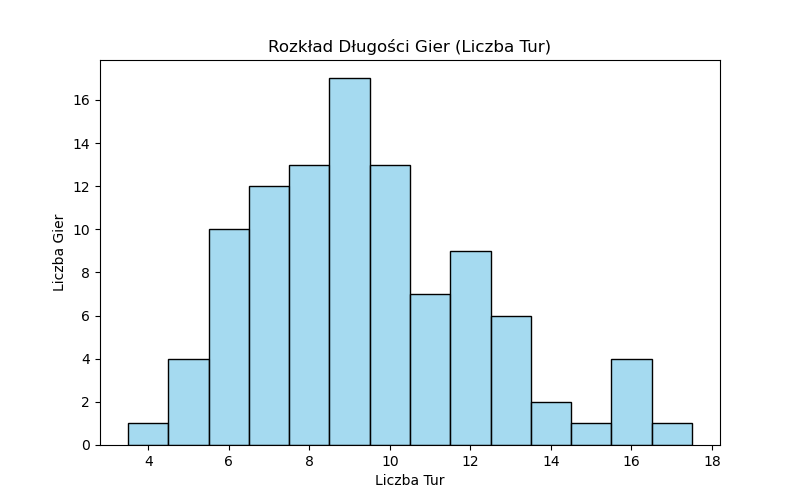
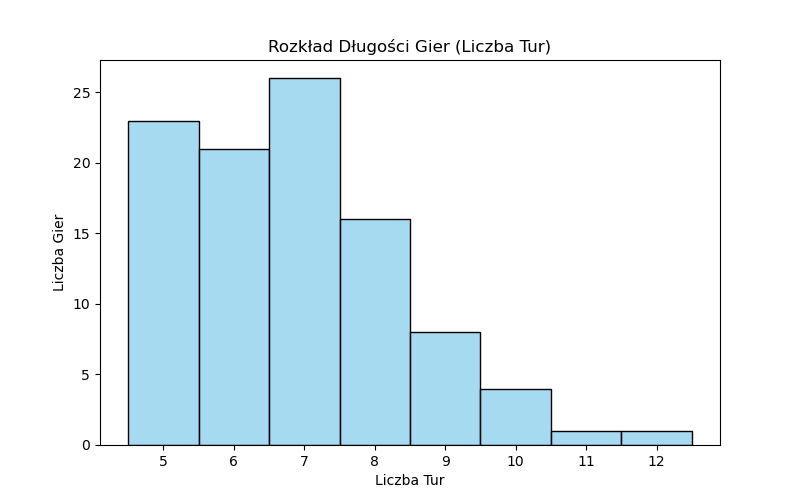
bugfixes

diff --git a/players/glove_spymaster.py b/players/glove_spymaster.py
@@ -106,17 +106,21 @@ class GloveSpyMaster(SpyMaster):
         assassin_list = [(assassin_word, -self.weight_assassin)]
         neutral_list = [(neutral_word, -self.weight_neutral) for neutral_word in neutrals]
         board_words = {c.word.upper() for c in obs.board}
+        targets_left = len(targets)
         
         if self.number_targets is not None:
             # check only fixed number of targets
-            word_count_list = [self.number_targets]
+            number_targets = self.number_targets if targets_left > self.number_targets else targets_left
+            word_count_list = [number_targets]
             best_clue, best_word_count, best_score, best_selected_targets = self._find_best_clue(
                 word_count_list,
                 targets,
                 assassin_list,
                 neutral_list, 
                 board_words, 
-                time_limit
+                time_limit,
+                use_time_limit=True,
+                use_score_treshold=False
             )
         else:
             # check every number of targets possible
@@ -152,9 +156,10 @@ class GloveSpyMaster(SpyMaster):
             word_counts_to_test,
             targets, assassin_list,
             neutral_list, board_words,
-            time_limit
+            time_limit,
+            use_time_limit = False,
+            use_score_treshold = False
         ):
-        start_time = time.time()
         best_clue = None
         best_score = -float('inf')
         best_selected_targets = None
@@ -163,13 +168,15 @@ class GloveSpyMaster(SpyMaster):
         #tu moze jakos robic wagi według similarity tylko trzeba to wyważyc,
         # chodzi mi o to ze zaczynamy od kombinacji czwórek np.
         # i sprawdzamy similarity i jak jest dos wysokie to mozemy dac to clue, a jak nie to mniej wyrazów jeszcze
-        for word_count in range( 1, len(targets) + 1 ):
+        start_time = time.time()
+
+        for word_count in word_counts_to_test:
 
             # get all combinations of the target words
             target_combinations = itertools.combinations(targets, word_count)
 
             for selected_targets in target_combinations:
-                if time.time() - start_time > time_limit:
+                if use_time_limit and time.time() - start_time > time_limit:
                     if self.terminal:
                         self.terminal.info(f"Przekroczono limit czasu ({time_limit}s)! Przerywam szukanie.")
                     if best_clue is not None:
@@ -178,7 +185,7 @@ class GloveSpyMaster(SpyMaster):
                     else:
                         return "COCOA", 2
                 selected_targets_list = list(selected_targets)
-                if word_count >= 3:
+                if use_score_treshold and word_count >= 3:
                     pairs = list(itertools.combinations(selected_targets_list, 2))
                     # sumujemy podobieństwo każdej pary i dzielimy przez liczbę par
                     avg_sim = sum(self.glove.similarity(w1, w2) for w1, w2 in pairs) / len(pairs)

diff --git a/utils/analyze_replays.py b/utils/analyze_replays.py
@@ -9,9 +9,12 @@ from collections import Counter
 
 
 class ReplayAnalyzer:
-    def __init__(self, replays_folder: str):
-        self.replays_folder = replays_folder
+    def __init__(self, test_name: str):
         self.replays_data = []
+        replays_path= os.path.join("stats", test_name, "replays")
+        csv_path = os.path.join("stats", test_name, "batch_evaluation.csv")
+        self.replays_folder = replays_path
+        self.csv_folder = csv_path
         self._load_all_replays()
 
     def _load_all_replays(self):
@@ -109,10 +112,16 @@ class ReplayAnalyzer:
         }
     
     def get_game_stats(self):
-        games_total = len(self.replays_data)
-        games_won = 0    
-        for game in self.replays_data:
-            pass
+        print("\n--- [A] Statystyki Gry ---")
+
+        df = pd.read_csv(self.csv_folder)
+        won_games = df['is_victory'].sum()
+        total_turns = df['turns_taken'].sum()
+        games_total = len(df)
+        winrate = won_games / games_total
+        avg_turns = total_turns / games_total
+        print(f"Procent gier wygranych: {winrate * 100}%")
+        print(f"Średnia ilość tur: { avg_turns}")
 
 
     def generate_charts(self, save_dir="plots"):
@@ -191,14 +200,14 @@ def main():
     import os
 
     test_name = sys.argv[1]
-    if test_name is None:
+    if len(sys.argv) < 2:
         print("Podaj nazwę testu")
         return
-    replays_path= os.path.join("stats", test_name, "replays")
     plots_path=os.path.join("plots", test_name)
-    analyzer = ReplayAnalyzer(replays_folder=replays_path)
+    analyzer = ReplayAnalyzer(test_name)
 
     if len(analyzer.replays_data) > 0:
+        analyzer.get_game_stats()
         analyzer.get_spymaster_stats()
         analyzer.get_guesser_stats()
         analyzer.generate_charts(save_dir=plots_path)

diff --git a/players/history_glove_spymaster.py b/players/history_glove_spymaster.py
@@ -27,7 +27,7 @@ class HistoryGloveSpyMaster(GloveSpyMaster):
         targets_left = len(targets)
 
         number_targets = table_recorder.get_best_target_count(targets_left)     
-        print(f"[HISTORY_SPYMASTER] clue_targets: {number_targets}, targets_left: {targets_left}")   
+        # print(f"[HISTORY_SPYMASTER] clue_targets: {number_targets}, targets_left: {targets_left}")   
         # check only fixed number of targets
         word_count_list = [number_targets]
         best_clue, best_word_count, best_score, best_selected_targets = self._find_best_clue(

diff --git a/players/prepare_spymaster.py b/players/prepare_spymaster.py
@@ -6,7 +6,6 @@ from players.history_glove_spymaster import HistoryGloveSpyMaster
 def prepare_spymaster(logger=None):
     spymaster = None
     type = settings["glove_spymaster"]["type"]
-    print(type)
 
     if type == "history":
         # print("[SPYMASTER]: creating history spymaster")
@@ -32,3 +31,5 @@ def prepare_spymaster(logger=None):
                     logger=logger
                 ) 
     return spymaster
+
+print(f"[PREP_SPYMASTER] config type: {settings["glove_spymaster"]["type"]}")
